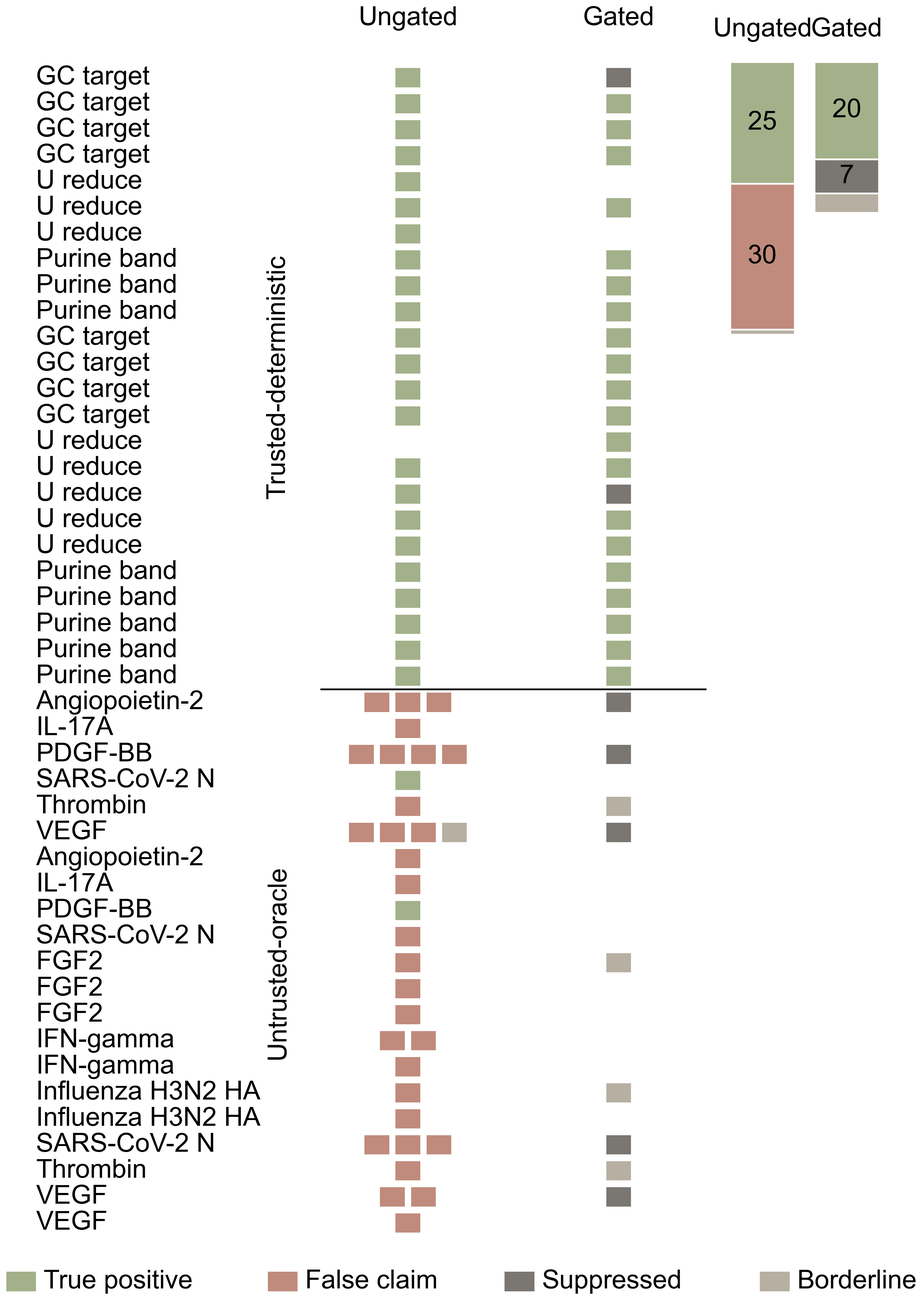
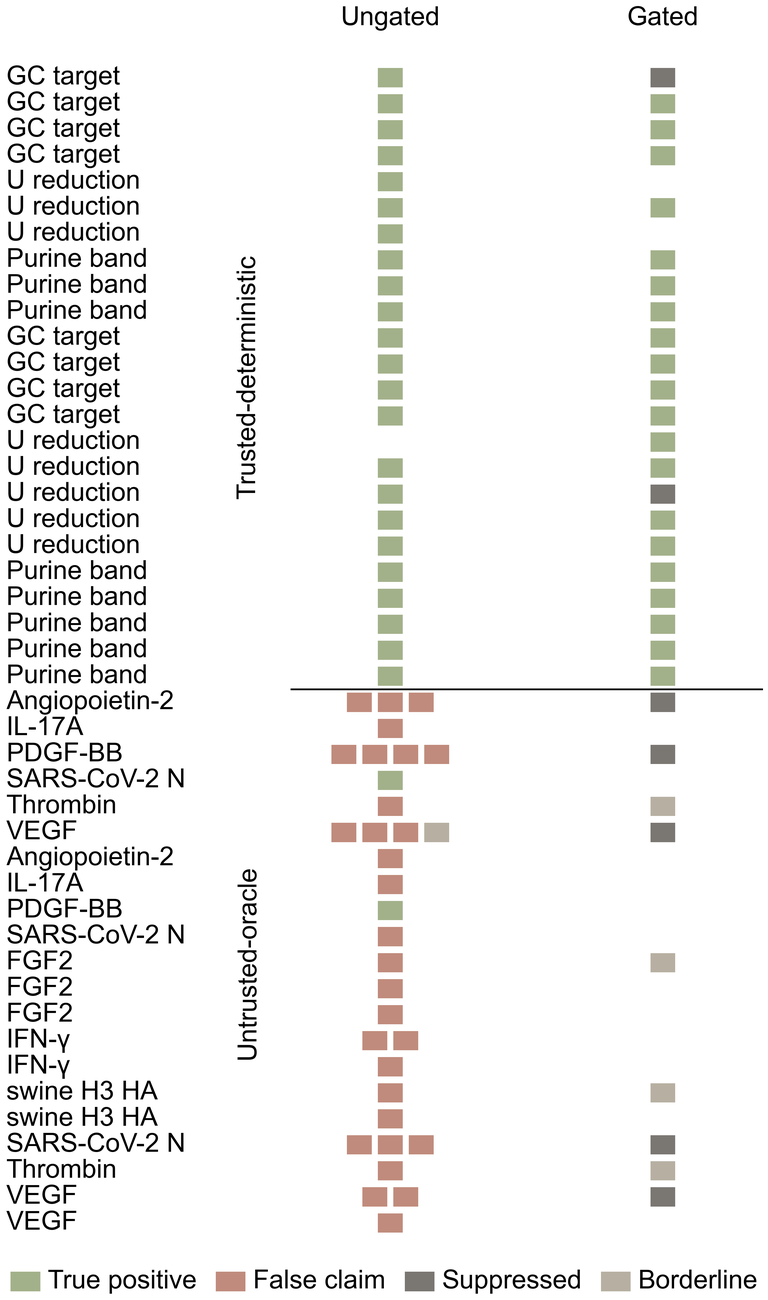
style(fig4b): drop the arm x verdict mosaic inset + fix row-label terminology — user-directed revision of the frozen Exp-17 panel, no re-run
- mosaic inset removed: its counts are stated in the Fig-4b caption and
  main text (the fig2h-donut / fig3f-waffle precedent); its duplicated
  arm headers cramped against each other above a tall empty column
- row labels to the fig3 convention: IFN-gamma -> IFN-gamma-symbol,
  Influenza H3N2 HA -> swine H3 HA; U reduce -> U reduction
- verdict key laid out with renderer-measured glyph widths (fig4e
  convention) under a canvas-overflow assert — the old estimated widths
  made the key wider than the canvas
- arm blocks 12 -> 14 mm, block gap 5 -> 8 mm so the matrix and the
  one-row key share the canvas width
- raster QA: zero non-black text cores, zero non-palette blobs, zero
  text ink inside tiles, no clipping; 1200-dpi PNG + vector PDF
- docs synced: PAPER_DRAFT Fig-4 legend (b), FIGURE_PLAN_V5 row b +
  type list + dated note, CHANGELOG, AGENTS.md Exp-17 entry

diff --git a/rna_agent_system/experiments/plots/fig4b_claim_matrix.py b/rna_agent_system/experiments/plots/fig4b_claim_matrix.py
@@ -5,9 +5,15 @@ untrusted-oracle block below), two column blocks (Ungated control arm =
 Exp 5, Gated treatment arm = Exp 17); one colour tile per published claim,
 green (sage) = retained true positive, red (terracotta) = false claim —
 the Biomni Fig. 2C–E correct/incorrect matrix encoding; suppressed claims
-dark warm grey; borderline claims warm grey. A summary mosaic inset (arm
-columns x verdict segments, heights proportional to claim counts) sits at
-the panel's top right over the empty claim space of low-claim rows.
+dark warm grey; borderline claims warm grey.
+
+2026-09-01 user-directed revision: the arm x verdict mosaic inset at the
+panel's top right was removed (its counts are already stated in the
+Fig. 4b caption and main text, its duplicated arm headers cramped against
+each other, and it left a tall empty column below it — the fig2h-donut /
+fig3f-waffle precedent); row labels now follow the fig3 target-label
+convention ("IFN-gamma" -> "IFN-γ", "Influenza H3N2 HA" -> "swine H3 HA")
+and "U reduce" was reworded to "U reduction".
 
 Style (Nature conventions, the fig3-panel house style): no in-figure
 titles; every text element one 6-pt pure-black style; colours only from
@@ -73,10 +79,13 @@ def task_rows() -> list[tuple[str, str]]:
     payload = json.loads(TASKS_JSON.read_text(encoding="utf-8"))
     det = [t for t in payload["tasks"] if t["category"] == "trusted_deterministic"]
     unt = [t for t in payload["tasks"] if t["category"] == "untrusted_oracle"]
-    fam = {"gc_target": "GC target", "u_reduce": "U reduce",
+    fam = {"gc_target": "GC target", "u_reduce": "U reduction",
            "purine_band": "Purine band"}
+    # target-label convention shared with the fig3 panels
+    tgt = {"IFN-gamma": "IFN-γ", "Influenza H3N2 HA": "swine H3 HA"}
     rows = [(t["id"], fam.get(t["task_family"], t["id"])) for t in det]
-    rows += [(t["id"], t["target_family"]) for t in unt]
+    rows += [(t["id"], tgt.get(t["target_family"], t["target_family"]))
+             for t in unt]
     return rows
 
 
@@ -90,16 +99,15 @@ def main() -> int:
                           or [0]) for tid, _ in rows), default=1)
 
     # Fixed block widths; claim tiles shrink to fit denser rows.
-    block_w = 12.0                          # mm per arm block
+    block_w = 14.0                          # mm per arm block
     tile = min(2.0, (block_w - 1.0) / max(1, max_claims) - 0.5)
     gap_tile = 0.5 if tile >= 1.2 else 0.3
     row_h, row_gap = 1.55, 0.55             # mm per task row
-    block_gap = 5.0                         # mm between the two arm blocks
+    block_gap = 8.0                         # mm between the two arm blocks
     label_w = 24.0                          # row-label column
     left_x = label_w + 2.0
     gated_x = left_x + block_w + block_gap
-    mx_w, mx_col = 16.0, 5.2                # mosaic inset
-    fig_w = gated_x + block_w + 4.0 + mx_w + 2.0
+    fig_w = gated_x + block_w + 3.0         # right margin
     fig_h = 10.0 + n_rows * (row_h + row_gap) + 8.0
 
     fig = plt.figure(figsize=(fig_w / 25.4, fig_h / 25.4), facecolor="white")
@@ -150,40 +158,22 @@ def main() -> int:
         fig.text(_fx(left_x - 4.5), _fy(yy), lab, ha="center", va="center",
                  rotation=90, fontsize=FONT, color=INK)
 
-    # ── mosaic inset: claim composition per arm ───────────────────────────
-    mx_w, mx_h = 16.0, min(22.0, fig_h - 14.0)
-    mx_x = fig_w - mx_w - 3.0
-    mx_y = 9.5
-    arms = summary["arms"]
-    col_w = 5.2
-    totals = {a: sum(arms[a][v] for v in VERDICT_ORDER) for a in ARM_ORDER}
-    max_total = max(totals.values())
-    for b, arm in enumerate(ARM_ORDER):
-        cx = mx_x + b * (col_w + 1.6)
-        yy = mx_y
-        for v in VERDICT_ORDER:
-            n = arms[arm][v]
-            if not n:
-                continue
-            seg_h = mx_h * n / max_total
-            fig.patches.append(Rectangle(
-                (_fx(cx), _fy(yy + seg_h)), _fx(col_w),
-                _fy(yy) - _fy(yy + seg_h),
-                facecolor=VERDICT_COLORS[v], edgecolor="white",
-                linewidth=0.4, transform=fig.transFigure, zorder=3))
-            if n / max_total > 0.10:
-                fig.text(_fx(cx + col_w / 2), _fy(yy + seg_h / 2), str(n),
-                         ha="center", va="center", fontsize=FONT, color=INK,
-                         zorder=4)
-            yy += seg_h
-        fig.text(_fx(cx + col_w / 2), _fy(mx_y - 2.6), ARM_LABELS[arm],
-                 ha="center", va="center", fontsize=FONT, color=INK)
-
     # ── verdict key: one centred row under the matrix ─────────────────────
+    # Label widths measured with the renderer (the fig4e measured-glyph
+    # convention) so the centred row never overflows the canvas.
     key_y = fig_h - 4.6
-    sw_w, sw_h, pitch, gap_k = 2.4, 1.6, 3.0, 1.6
-    label_w = {"TP": 16.5, "FP": 14.5, "suppressed": 16.0, "borderline": 14.0}
-    row_w = sum(pitch + label_w[v] + gap_k for v in VERDICT_ORDER) - gap_k
+    sw_w, sw_h, pitch, gap_k = 2.4, 1.6, 3.0, 1.5
+    fig.canvas.draw()
+    renderer = fig.canvas.get_renderer()
+    text_w = {}
+    for v in VERDICT_ORDER:
+        probe = fig.text(0, 0, VERDICT_LABELS[v], fontsize=FONT, color=INK)
+        bb = probe.get_window_extent(renderer)
+        text_w[v] = bb.width / fig.dpi * 25.4     # px → mm
+        probe.remove()
+    row_w = sum(pitch + text_w[v] for v in VERDICT_ORDER) + \
+        gap_k * (len(VERDICT_ORDER) - 1)
+    assert row_w <= fig_w - 4.0, f"verdict key {row_w:.1f} mm > canvas"
     x = (fig_w - row_w) / 2
     for v in VERDICT_ORDER:
         fig.patches.append(Rectangle(
@@ -193,7 +183,7 @@ def main() -> int:
             transform=fig.transFigure))
         fig.text(_fx(x + pitch), _fy(key_y), VERDICT_LABELS[v],
                  ha="left", va="center", fontsize=FONT, color=INK)
-        x += pitch + label_w[v] + gap_k
+        x += pitch + text_w[v] + gap_k
 
     OUT_DIR.mkdir(parents=True, exist_ok=True)
     for ext in ("pdf", "png"):
@@ -201,6 +191,7 @@ def main() -> int:
                     dpi=1200 if ext == "png" else None,
                     facecolor="white", bbox_inches="tight", pad_inches=0.02)
     plt.close(fig)
+    arms = summary["arms"]
     u, g = arms["ungated"], arms["gated"]
     print(f"fig4b -> {OUT_DIR / 'fig4b_claim_matrix.pdf'} (+png 1200 dpi); "
           f"ungated TP {u['TP']}/FP {u['FP']}, gated TP {g['TP']}/FP {g['FP']}/"

diff --git a/AGENTS.md b/AGENTS.md
@@ -9,7 +9,7 @@
 
 - **Exp 18 (Fig 4d, §2.4 实验 3) executed** (2026-09-01, user-confirmed dataset alignment — "与最新的数据集保持一致" — then launched): E3-M mRNA-side claim-gating dual-arm re-run (`experiments/exp18_build_mrna_audit_tasks.py` + `experiments/exp18_mrna_claim_gating.py`, pre-registered docstrings, pilot 6/6 per arm PASS; legacy E3-M assets absent from disk — nothing to delete; protocol recovered from git e337ac5). Task set rebuilt on the **latest re-run datasets**: targets = the current `RNA-BioBench-FullLength-mRNA` files (per-target codon tables — GFP E. coli per the current registration; legacy had used Homo sapiens for all four, disclosed); CDS candidates = the production `mrna_cds_design` λ-grid (the Fig-2b/c designed-arm instrument; task λ {0,4,10}, compare λ 0 vs 10 — legacy pool was the deleted E6 cache λ {2,8,20}); constructs = the production `full_length_mrna_design` top-3 ranked per target; MRL ground truth = the Exp-14 anchor set (measured MRL); 20 tasks / 8 families / 10 trusted + 10 untrusted, family-target assignment identical to legacy. Trusted truth = exact recomputation (production CAI tool, LinearFold MFE, pure-Python constraints); untrusted scores **never embedded** — fetched live at run time (GEMORNA 8004 + LinearFold 8015; junction = the CURRENT platform junction report MFE/nt + ddG_open_w1, the legacy AUG/Kozak burial booleans being retired platform-side; run-time junction values cross-validated bit-identical against the design-time workflow scores). Both arms fresh: ungated = advisory; gated = `RNADA_CAPGATE=enforce` + packaged default SelfModel (E7/Exp-14 GEMORNA-MRL profile) + deterministic report metrics registered per family + the legacy scoring-implied-by-ranking patch (restored after gated pilot v1 mis-suppressed legitimate MRL claims — 6 runs superseded, disclosed) + execution verification + ClaimGate; exactly 2 LLM calls/task/arm, prompts byte-identical to legacy E3-M; deterministic blind adjudication (legacy rules; seed-0 shuffle + sealed map; registered amendment: positive assertion on decoy families requires a candidate-id subject — the legacy word-list heuristic misfired on the gated arm's negated abstention statements). **Platform defect found and bypassed (disclosed): the full-length results JSON's `metadata.cds_sequence` is a storage-side truncated echo (200 chars + "…(truncated)", the ToolExecutor string limit) — design-time evaluation ran on the true in-memory sequences (stored cds_cai equals the clean CDS's CAI exactly), the builder resolves the true CDS from the CDS-design cache by source with a prefix assertion; the five construct tasks re-run after the fix (10 superseded runs).** **40/40, 0 failures (ungated 1,224.6 s + gated 840.6 s; design phase 3,850.7 s cached): FP 6/17 = 35.3% (CI 17.3–58.7) → 1/12 = 8.3% (CI 1.5–35.4); TP retention 11/11 = 100%; overreach 6 → 0; go-rule PASS (76.4% FP reduction ≥ 50%, 100% retention ≥ 90%)** — the gated endpoint reproduces the legacy registered 8.3%/11-of-11 exactly, the surviving FP is the same symmetric MRL rank-flip channel (weakest certified family ρ = 0.835: predicted hi30 vs measured hi01); ungated FPs concentrate on utr3 (3/3) + junction (2/2); the gated protection acts one layer earlier than the aptamer side — 6 blocked plan requests → the model publishes no claim at all on the five utr3/junction tasks, 3 cross-family MRL claims downgraded to relative scope (neutral), 0 suppressions; trusted families 10/10 TP both arms, 0 abstentions. Usage: 80 kept + 32 superseded LLM calls. Figure `experiments/plots/fig4d_mrna_family_strip.py` → `fig4d_mrna_family_strip.{pdf,png}` (paired categorical strip by task family: 20 task rows × two arm blocks, one tile per published claim — sage TP / terracotta FP / warm grey neutral / outlined white = no published claim (the gated abstention mechanism) — + arm × verdict mosaic inset; palette rev 7, 6-pt pure black, absolute mm, 1200-dpi PNG; two visual-QA rounds — first round's family/target label column collisions fixed by shortened labels + widened columns). PAPER_DRAFT (abstract + contribution 3 + §2.4 paragraph + Fig 4 legend d + Methods + LLM usage + data availability), PAPER_FACT_SHEET (Exp 18 section + claim check + key-number 13 extended to the E3-M re-run), FIGURE_PLAN_V5 row d + dated note, MANUSCRIPT reset table, CHANGELOG updated. **Next: Fig 4e–h + Figs 5–6 campaigns + E21/E22 baselines under the third reset, same pattern.**
 
-- **Exp 17 (Fig 4a/4b, §2.4 实验 1) executed** (2026-08-31, user-confirmed dataset currency then launched): capability-gated dual-arm main re-run (`experiments/exp17_claim_gating.py`, pre-registered docstring, pilot 8/8 PASS — 0 FP / 0 overreach / 14 blocked plan requests; task set `e5_audit_tasks.json` verified byte-identical to a fresh regeneration before launch; legacy E3 assets absent from disk — nothing to delete). The legacy E3 gated arm (registered 57.9% → 0%, TP 8 → 9, overreach 23 → 0) re-measured at the 45-task plan-A scale, paired task-for-task with the Exp-5 ungated control arm (same tasks, prompts, live oracle chain; dedup cache seeded from Exp 5 — disclosed). Instrument = the production gate stack as shipped: `RNADA_CAPGATE=enforce` + packaged default SelfModel (structural oracles failed screening/ranking on all six profiled families; the three v3-only families inherit the denial by conservative transfer); plan oracle_requests gated per declared use at the oracles' registered task key `rna_aptamer_design` (structural oracles via `runtime.review_tool_call` under `oracle_use`; deterministic proxies and unknown names gate as unprofiled → blocked under enforce — the same outcome as the legacy runtime-profiled failed grade); allowed requests fulfilled live through ToolExecutor under the same context (tool-layer gate = the actual enforcer); amendment-v1.1 legs kept (ClaimGate uniform basis rule + execution verification by exact recomputation); prompts byte-identical to the control arm modulo the legacy gate-feedback block; blind adjudication (cross-arm shuffle seed 0, sealed map `blind_map_SEALED.json`). **45/45, 0 failures (wall ≈ 1.6 h): FP 0/31 = 0% (Wilson CI 0–16.1) vs ungated 54.5% — the hard guarantee holds on every task; overreach 59 → 0 (71 plan requests blocked); TP retention 80.0% (25 → 20) — below the pre-registered 90% gate, reported as measured**: 2 true metric claims suppressed by the uniform basis rule (LLM declared the deterministic metric itself as an unprofiled dependency), 2 length-sloppy sequences (59 ≠ 60 nt) correctly abstained (counterfactual FPs), the ungated arm's 2 lucky untrusted TPs unretainable by design, +1 rescue (u_reduce_3); ClaimGate flow 31 → 24 published (20 TP + 4 borderline) / 7 suppressed (counterfactual 4 FP + 3 TP); deterministic class 20 TP / 0 FP, untrusted class 0/0/4 borderline/5 suppressed; legacy-20 subset gated 0%. Figures `experiments/plots/fig4a_claim_gating_headline.py` → `fig4a_claim_gating.{pdf,png}` (grouped bars: FP rate + Wilson CI whiskers / TP counts; ungated terracotta / gated sage) `fig4b_claim_matrix.py` → `fig4b_claim_matrix.{pdf,png}` (45-row task × arm per-claim colour-block matrix — sage = retained / terracotta = false claim, the Biomni Fig. 2C–E convention — with arm × verdict mosaic inset; category separator + rotated group labels + centred four-swatch verdict key; palette rev 7, 6-pt pure black, absolute mm, 1200-dpi PNG; QA fixed a mm/inch double-conversion bug that collapsed the first render and raised fig4a's 0% label off the axis). PAPER_DRAFT (abstract + contribution 3 + §2.4 paragraph + Fig 4 legend a–c + Methods + LLM usage + data availability), PAPER_FACT_SHEET (Exp 17 section + claim check + key-number 13 re-based to the re-measured dual-arm numbers + legacy-E3 superseded note), FIGURE_PLAN_V5 rows a/b (+ row c data note 59 → 0, panel pending), MANUSCRIPT reset table, CHANGELOG updated. Same-day addendum: **Fig 4c drawn from the same frozen results, no re-run** (`experiments/plots/fig4c_overreach_events.py` → `fig4c_overreach_events.{pdf,png}`: overreach paired bars by oracle × use — ungated 59 (RhoFold 9+11, ProteinX 11+8, EGARPS 11+9) → gated 0, arm colours as fig4a, 59→0 bracket delta annotation; FIGURE_PLAN_V5 row c, PAPER_DRAFT legend (c) + the 71-blocked-requests clause, MANUSCRIPT, CHANGELOG updated). **Next: the remaining Figs 4–6 campaigns + E21/E22 baselines under the third reset, same pattern.**
+- **Exp 17 (Fig 4a/4b, §2.4 实验 1) executed** (2026-08-31, user-confirmed dataset currency then launched): capability-gated dual-arm main re-run (`experiments/exp17_claim_gating.py`, pre-registered docstring, pilot 8/8 PASS — 0 FP / 0 overreach / 14 blocked plan requests; task set `e5_audit_tasks.json` verified byte-identical to a fresh regeneration before launch; legacy E3 assets absent from disk — nothing to delete). The legacy E3 gated arm (registered 57.9% → 0%, TP 8 → 9, overreach 23 → 0) re-measured at the 45-task plan-A scale, paired task-for-task with the Exp-5 ungated control arm (same tasks, prompts, live oracle chain; dedup cache seeded from Exp 5 — disclosed). Instrument = the production gate stack as shipped: `RNADA_CAPGATE=enforce` + packaged default SelfModel (structural oracles failed screening/ranking on all six profiled families; the three v3-only families inherit the denial by conservative transfer); plan oracle_requests gated per declared use at the oracles' registered task key `rna_aptamer_design` (structural oracles via `runtime.review_tool_call` under `oracle_use`; deterministic proxies and unknown names gate as unprofiled → blocked under enforce — the same outcome as the legacy runtime-profiled failed grade); allowed requests fulfilled live through ToolExecutor under the same context (tool-layer gate = the actual enforcer); amendment-v1.1 legs kept (ClaimGate uniform basis rule + execution verification by exact recomputation); prompts byte-identical to the control arm modulo the legacy gate-feedback block; blind adjudication (cross-arm shuffle seed 0, sealed map `blind_map_SEALED.json`). **45/45, 0 failures (wall ≈ 1.6 h): FP 0/31 = 0% (Wilson CI 0–16.1) vs ungated 54.5% — the hard guarantee holds on every task; overreach 59 → 0 (71 plan requests blocked); TP retention 80.0% (25 → 20) — below the pre-registered 90% gate, reported as measured**: 2 true metric claims suppressed by the uniform basis rule (LLM declared the deterministic metric itself as an unprofiled dependency), 2 length-sloppy sequences (59 ≠ 60 nt) correctly abstained (counterfactual FPs), the ungated arm's 2 lucky untrusted TPs unretainable by design, +1 rescue (u_reduce_3); ClaimGate flow 31 → 24 published (20 TP + 4 borderline) / 7 suppressed (counterfactual 4 FP + 3 TP); deterministic class 20 TP / 0 FP, untrusted class 0/0/4 borderline/5 suppressed; legacy-20 subset gated 0%. Figures `experiments/plots/fig4a_claim_gating_headline.py` → `fig4a_claim_gating.{pdf,png}` (grouped bars: FP rate + Wilson CI whiskers / TP counts; ungated terracotta / gated sage) `fig4b_claim_matrix.py` → `fig4b_claim_matrix.{pdf,png}` (45-row task × arm per-claim colour-block matrix — sage = retained / terracotta = false claim, the Biomni Fig. 2C–E convention — with arm × verdict mosaic inset; category separator + rotated group labels + centred four-swatch verdict key; palette rev 7, 6-pt pure black, absolute mm, 1200-dpi PNG; QA fixed a mm/inch double-conversion bug that collapsed the first render and raised fig4a's 0% label off the axis; **2026-09-01 user-directed revision, same frozen Exp-17 summary, no re-run**: the arm × verdict mosaic inset removed (its counts are stated in the Fig-4b caption/main text — the fig2h-donut/fig3f-waffle precedent — and its duplicated arm headers cramped above a tall empty column), row labels to the fig3 convention (IFN-γ, swine H3 HA), "U reduce" → "U reduction", the verdict key laid out with renderer-measured glyph widths under a canvas-overflow assert, arm blocks 12 → 14 mm; raster QA: zero non-black text cores, zero non-palette blobs, zero text ink inside tiles, no clipping). PAPER_DRAFT (abstract + contribution 3 + §2.4 paragraph + Fig 4 legend a–c + Methods + LLM usage + data availability), PAPER_FACT_SHEET (Exp 17 section + claim check + key-number 13 re-based to the re-measured dual-arm numbers + legacy-E3 superseded note), FIGURE_PLAN_V5 rows a/b (+ row c data note 59 → 0, panel pending), MANUSCRIPT reset table, CHANGELOG updated. Same-day addendum: **Fig 4c drawn from the same frozen results, no re-run** (`experiments/plots/fig4c_overreach_events.py` → `fig4c_overreach_events.{pdf,png}`: overreach paired bars by oracle × use — ungated 59 (RhoFold 9+11, ProteinX 11+8, EGARPS 11+9) → gated 0, arm colours as fig4a, 59→0 bracket delta annotation; FIGURE_PLAN_V5 row c, PAPER_DRAFT legend (c) + the 71-blocked-requests clause, MANUSCRIPT, CHANGELOG updated). **Next: the remaining Figs 4–6 campaigns + E21/E22 baselines under the third reset, same pattern.**
 
 - **Fig 3 composite 组装（a–h 八面板）** (2026-08-31, 当日经用户指示修订一轮): `experiments/plots/fig3_assemble.py` → `experiments/plots/output/fig3_composite.{pdf,png}` (190.5 × 254.6 mm page; PNG 8999 × 12029 px at **1200 dpi** rendered from the all-vector composite PDF — Nature Methods line-art bar; PyMuPDF `show_pdf_page` Form-XObject embedding, no rasterization). Nature conventions re-verified against the published DeepRare main Figs. 2–4 (`relevant_references/`, Nature 651, 2026): bold lowercase letters at each panel's top-left corner (Helvetica-Bold 8 pt, ink black, no period/brackets), strict reading order a → h, rows top-aligned so same-row letters share one line, fixed column grid — the fig2 composite conventions carried over. Layout: a full width; **b + c share row 2 edge to edge** — c embedded in a two-sub-row composite layout (`FIG3C_LAYOUT=composite` → `fig3c_docking_lollipop_composite.{pdf,png}`: the 19 lollipops wrap 11 + 8 at the SARS-CoV-2 RBD | PSMA group boundary onto a 97.2 × 103.8 mm canvas matching b's height; the standalone single-row panel c unchanged); **d + e 等高配对** — 首版 d|e 行在 e 下方留有高差空白带，用户指示后 d 就地缩小（3.84×2.46 → 3.70×2.00 in → 86.7×44.1 mm）、e 就地放大（89×34 → 94×44.6 mm → 85.5×41.4 mm）重渲染，6-pt 字体与内部版式不变、数据不变; **f g h 三联等高一排收尾**（fig2 fgh 行惯例：统一绘制高度 90.2 pt，各面板缩放 ≈ 0.69/0.64/0.81，剩余宽度均分 gutters；用户指示 h 无需全宽 —— 首版的全宽 h 变体 `fig3h_dissolution_composite.*` 退役删除，fig3h 脚本回退单一版式）。Assembly QA caught fig3a's colour-bar gradient embedded at 100 dpi inside the panel PDF (the composite's only raster element) — fig3a's savefig dpi unified to 1200 and re-rendered (same v3 summary, 2/27 passes invariant; its standalone PNG now 1200 dpi too, matching the fig3b–h convention). Strip-by-strip visual QA (row letter lines, b|c seam, d|e matched heights, fgh equal-height row, h inset/gate tag, right-edge flush) passed. FIGURE_PLAN_V5 (Fig-3 table footnote), CHANGELOG updated. **Next: Figs 4–6 campaigns + E21/E22 baselines re-run under the third reset, same pattern (new `expN_*` drivers, pre-registered docstrings, advisory primary arm, unified palette rev 7 figures).**
 - **Figs 3–5 撤销 a 子图总结图 + fig3 文件改名 fig3a–h** (2026-08-31, user direction — 结果图不再以总结/机制示意图开头，直接呈现实验结果图): Fig 3a 失败模式示意图（当日早些时候绘制）连同 `fig3a_failure_modes.{py,pdf,png}` 删除；规划中的 Fig 4a CapGate 机制示意图与 Fig 5a GenNav 机制示意图在其战役重跑之前移除；三张图原 b–i 面板全部重编为 a–h。机制示意保留在 Fig 1（d CapGate loop、e GenNav loop），PAPER_DRAFT 正文机制引用相应改指 Fig. 1d / Fig. 1e，§2.3 开头引用改指整图 (Fig. 3)。**文件改名**：`experiments/plots/fig3{b..i}_*.py` → `fig3{a..h}_*.py`（output/ 下 pdf/png 同步），脚本内 Usage/Output 路径与面板惯例互引（fig3b/3c/3g 惯例 → fig3a/3b/3f 等）一并重编；外部文献引用（如 CASCADE Fig. 3b）未动；8 个脚本 py_compile 通过。**文档同步**：FIGURE_PLAN_V5（三图删 a 行、行重编、9→8 panels、类型清单字母、新增 2026-08-31 注记）、PAPER_DRAFT（正文引用 + Fig 3/4/5 图例 + 头部注记）、PAPER_FACT_SHEET 与 MANUSCRIPT（v5 面板字母、图脚本路径、legacy→v5 映射注记）。Fig 2a 任务毯图与 Fig 6a 能力地图为数据面板，未动。历史登记（本文件既有 What's-New 条目、CHANGELOG 旧条目、预注册 driver docstring、冻结结果 summary）按写作时字母/路径保留 — 其中的 fig3X 文件名按本条映射解读。**Next 不变：fig3 composite 组装（按新字母 a–h），然后 Figs 4–6 campaigns + E21/E22 baselines re-run under the third reset, same pattern（新战役图直接按新字母编号）。**

diff --git a/rna_agent_system/docs/PAPER_DRAFT.md b/rna_agent_system/docs/PAPER_DRAFT.md
@@ -148,7 +148,7 @@ The complete RNADesignAgent platform (agent core, multi-agent execution layer, w
 
 **Fig. 3 | Three failure modes of tool-using agents, measured.** (a) Screening power of three structure oracles across nine RNA–protein targets (bubble-matrix heatmap; bubble size and colour encode AUROC, printed per cell; chance 0.5 marked solid on the colour scale; per-target anchor counts, binders + / negatives −, under the column labels): on the nine-target anchor set (95 entries) 2/27 cells nominally pass the AUROC > 0.8 gate — ProteinX on swine H3 HA (0.83, CI 0.33–1.0) and EGARPS on IFN-γ (0.83, CI 0.50–1.0) — both small-n and all 27 bootstrap 95% CIs cover chance. (b) Ranking power (Cleveland dot plot of per-cell Spearman ρ against measured Kd on the within-target affinity series; ringed dots = nominal passes, ρ ≥ 0.6): no cell shows reliable ranking power. Run 2026-08-28, 54 affinity entries zero-intervention through the deployed chain (54/54, 27 cells): 4/27 nominal passes — all three oracles on IFN-γ (ρ = 0.71/0.66/0.60, n = 6; a single in-silico-mutant family spanning < 1 order of Kd) and ProteinX on Angiopoietin-2 (n = 3) — the three IFN-γ bootstrap intervals span zero, while the Angiopoietin-2 cell is a degenerate three-point estimate (its entries flip between ~0 and ~1 across stochastic complex realizations). (c) Docking (native-pose rank lollipop, one marker per complex over its 21-candidate seeded rigid-body decoy set, ordered left to right by protein target; rank 1 = top-1 is the pre-registered success criterion, panel gate ≥ 2/3 of complexes): native poses never rank top-1 — 0/19 complexes across 14 independent protein targets (left to right: Thrombin — TBA, HD22, Toggle-25t, M08s-1; HIV-1 RT — T1.1; Factor IXa — DTRI-177; Factor Xa — 11F7t; vWF — ARC1172, BT-100; SARS-CoV-2 N — A58-T10; SARS-CoV-2 RBD — FY-apt; PSMA — A9g; autotaxin — Kato16; NF-κB — p50-apt; GRK2 — C13.18; TfR1 — TfR1-apt; *P. falciparum* LDH — PfLDH-1, C8N5t; *P. vivax* LDH — pL1), ranks 6–20 of 21, native below the median decoy in most complexes; reset run 2026-08-27 zero-intervention through the deployed EGARPS service on the user-approved v3 anchor extension (397/399 poses scored; two reproducible service-side pose failures disclosed; the offline-calibrated decoy protocol reproduces the 1HVU native contact count of 152 exactly). (d) Affinity calibration (Kd scatter — each point one of the 62 binders with a measured Kd across the nine targets; the six thrombin-series points ringed; pegaptanib annotated): on the full nine-target anchor set (reset run 2026-08-28, 95/95 zero-intervention through the deployed chain) the six-point thrombin Kd series reaches ρ = 0.49 (sub-gate); pooled binder-versus-negative separation is chance-level (AUROC = 0.52, 95% CI 0.39–0.65, 62 vs 28), with all three score classes — binders, literature negatives, random-sequence negatives — spanning the full nine-order score range with interleaved medians (0.22, 1.4 × 10⁻³ and 2.2 × 10⁻² respectively; class distributions text-reported, the screening failure shown systematically in a); the per-entry inversion is seen on the panel (pegaptanib ~1.3 × 10⁻⁶ versus scrambled TBA 0.98). (e) Claim overreach in the ungated agent (horizontal bars: decision-layer overreach events by oracle and intended use, oracle colours as in a–d, solid = ranking objective, light = screening evaluation; the per-claim adjudication is text-reported): on the 45-task audit set (reset run 2026-08-29, zero-intervention through the deployed oracle services) 30 of 55 claims are false positives (54.5%; 95% CI 41.5–67.0) — 23/23 claims true on the 24 trusted-deterministic tasks versus 30 of 32 false on the 21 untrusted-oracle tasks (93.8%) — with 59 plan-level overreach events spread 8–11 per cell across all three oracles and both uses. (f) Profiling certifies where power exists (forest dot + 95% CI against the pre-registered gates, dashed; left, screening AUROC on the high- versus low-MRL tiers — 60 + 60 anchors per family — with the 0.8 gate; right, ranking Spearman ρ against measured MRL — 120 rank-stratified anchors per family — with the 0.6 gate; family rows — the random 50-nt 5′UTR library, the registered in-distribution positive control, and the two never-trained varying-length 5′UTR libraries — value and CI printed above each dot): the expression oracle (GEMORNA MRL) passes decisively on all three measured-ribosome-load anchor families — screening AUROC 0.990–1.000 with bootstrap CIs clearing chance, ranking ρ 0.835–0.926 with descriptive CIs 0.75–0.95 all above the gate. Reset run 2026-08-29 zero-intervention through the deployed service (706/706 successful). (g) Deployed-artifact fidelity (dumbbell with a live verification fork; per split, screening AUROC on the oracle's own official held-out test splits; chance 0.5 solid, screening gate 0.8 dashed): the pre-fix service, recovered byte-verbatim from version control and re-measured in an isolated sandbox on the same pairs, scores 0.790/0.420 (open markers; agreement with the registered incident record ≤ 0.009) — its preprocessing collapsed the model's case-sensitive RNA encoding and "corrected" an upstream adjacency-indexing quirk the checkpoints were trained on; after the preprocessing repair both of the platform's shipped integration paths were re-verified live, zero-intervention, on all 1,662 pairs — the default agent tool path (wrapper uppercase + T→U normalization, verified applied on every pair; terracotta) at 0.975/0.986 and the verbatim service endpoint (sage) at 0.974/0.983, the endpoint bit-identical to the registered evidence; the shared case treatment across arms isolates the adjacency rewrite as the damage carrier; whiskers are stratified-bootstrap 95% CIs. (h) Confounded improvement (effect-size slope across the pre-registered controls, with a permutation-null histogram inset marking the observed δ; pre-registered GO gate δ = 0.3 dashed; reset run 2026-08-29→31, 240 cells zero-intervention through the deployed chain, 228 successful — Ferritin the registered zero-output boundary): the coordination loop's apparent advantage over the serial baseline on the EGARPS-component best-of-pool metric (Cliff's δ = +0.14, paired Wilcoxon P = 2.6 × 10⁻³; 41/56 paired cells; n = 56 (target, seed) cells over 19 targets × 3 seed sets; stage dots terracotta / grey blue / sage) is already below the effect-size gate and collapses under budget matching (δ = +0.05, P = 0.21; loop pool 16 versus one-pass serial 16) and under fixed resampling at identical mechanics and budget (δ = −0.01, P = 0.73; forced seeds+1 second pass) — the loop's diagnostic content adds nothing beyond doubled sampling; the four-step self-audit retires the two strongest legacy claims (survival 0/2 against the 70% threshold); inset: sign-flip permutation null of the apparent effect (10⁴), observed δ marked.
 
-**Fig. 4 | Capability gating eliminates false claims while preserving true ones.** (a) Dual-arm main experiment on the 45-task audit set (both arms re-run under the programme reset; ungated control = Exp 5, gated treatment = Exp 17; grouped bars, Wilson 95% CI whiskers on the rate panel): false-positive claim rate 54.5% (ungated, 30/55) → 0% (gated, 0/31); true positives 25 → 20 (retention 80.0%, below the pre-registered 90% gate — see main text for the deterministic decomposition). (b) Claim adjudication (per-claim colour-block matrix — one row per task, two arm blocks, one tile per claim: green = retained true positive, terracotta = false claim, dark grey = suppressed at the claim gate, light grey = borderline; arm × verdict mosaic inset): ungated 25 true positives / 30 false positives versus gated 20 / 0 with 7 suppressed and 4 borderline; the gated block carries no false tile. (c) Decision-layer overreach events: 59 → 0, by oracle and intended use (paired bars with the change annotated; all ungated events on untrusted-oracle tasks; the gated arm's zero follows from 71 plan requests blocked at the decision gate). (d) Replication on the mRNA-side audit set built from real full-length design-reporting tasks (Exp 18 dual-arm re-run; paired categorical strip by task family — one row per task, two arm blocks, one tile per published claim: green = retained true positive, terracotta = false claim, light grey = neutral relative-scope claim, outlined empty tile = no published claim; arm × verdict mosaic inset): false positives 35.3% (6/17) → 8.3% (1/12), true-positive retention 100% (11/11); all ungated false positives sit on the 3′UTR-stability and junction families, where the gated arm's six blocked plan requests leave no evidentiary path and it publishes no claim; the three never-profiled-family expression claims are downgraded to relative scope in both readings; the single surviving gated false positive is the symmetric MRL rank flip. (e) Selective gating on the certified MRL oracle (decision matrix; Exp 23, 2026-09-01, twelve cells, all meeting pre-registered expectations, zero LLM calls). DecisionGate rows — pre-action ranking-objective requests: allowed on the three Exp-14-certified Sample-2019 families (confidence 1.0); downgraded on a never-profiled family of the same oracle (conservative transfer, confidence decayed to 0.5 = 1.0 × 0.5); require-profiling — blocked — for the 3′UTR stability predictor, which has no measured anchor set. ClaimGate rows — absolute-scope claims: pass on a certified family; rewritten to within-target relative scope on the never-profiled family; rejected when depending on the unprofiled 3′UTR predictor. Right-hand annotations give the self-model confidence and the tool-layer consequence measured live through ToolExecutor: allowed and downgraded requests execute (the certified-family score reproducing the Exp-14 cache exactly), the blocked request fails as GatedActionError before any service call. Tile colours: sage allow/pass, mauve downgrade, sand require-profiling, terracotta reject (the Fig. 2h gate-verdict convention); left strips: grey blue 5′UTR MRL oracle (the Fig. 3f colour), dark warm grey 3′UTR stability oracle. (f) Production gate decisions from the platform audit trail (Cleveland dot plot by oracle): reject, require-profiling and downgrade counts. (g) Advisory governance: 19/19 tasks succeed with and without quality review; LLM review failure is recorded as audit metadata and can never fail a run. (h) LLM minimalism across campaigns (bubble strip; dot size encodes calls per task): two calls per task in the gating experiments (both arms), 2.4 per gene in mRNA navigation, a single call across the decisive aptamer run — the gates and guarantee rules are deterministic. Representative ungated claims and their gated rewrites are tabulated in Supplementary Table S1.
+**Fig. 4 | Capability gating eliminates false claims while preserving true ones.** (a) Dual-arm main experiment on the 45-task audit set (both arms re-run under the programme reset; ungated control = Exp 5, gated treatment = Exp 17; grouped bars, Wilson 95% CI whiskers on the rate panel): false-positive claim rate 54.5% (ungated, 30/55) → 0% (gated, 0/31); true positives 25 → 20 (retention 80.0%, below the pre-registered 90% gate — see main text for the deterministic decomposition). (b) Claim adjudication (per-claim colour-block matrix — one row per task, two arm blocks, one tile per claim: green = retained true positive, terracotta = false claim, dark grey = suppressed at the claim gate, light grey = borderline): ungated 25 true positives / 30 false positives versus gated 20 / 0 with 7 suppressed and 4 borderline; the gated block carries no false tile. (c) Decision-layer overreach events: 59 → 0, by oracle and intended use (paired bars with the change annotated; all ungated events on untrusted-oracle tasks; the gated arm's zero follows from 71 plan requests blocked at the decision gate). (d) Replication on the mRNA-side audit set built from real full-length design-reporting tasks (Exp 18 dual-arm re-run; paired categorical strip by task family — one row per task, two arm blocks, one tile per published claim: green = retained true positive, terracotta = false claim, light grey = neutral relative-scope claim, outlined empty tile = no published claim; arm × verdict mosaic inset): false positives 35.3% (6/17) → 8.3% (1/12), true-positive retention 100% (11/11); all ungated false positives sit on the 3′UTR-stability and junction families, where the gated arm's six blocked plan requests leave no evidentiary path and it publishes no claim; the three never-profiled-family expression claims are downgraded to relative scope in both readings; the single surviving gated false positive is the symmetric MRL rank flip. (e) Selective gating on the certified MRL oracle (decision matrix; Exp 23, 2026-09-01, twelve cells, all meeting pre-registered expectations, zero LLM calls). DecisionGate rows — pre-action ranking-objective requests: allowed on the three Exp-14-certified Sample-2019 families (confidence 1.0); downgraded on a never-profiled family of the same oracle (conservative transfer, confidence decayed to 0.5 = 1.0 × 0.5); require-profiling — blocked — for the 3′UTR stability predictor, which has no measured anchor set. ClaimGate rows — absolute-scope claims: pass on a certified family; rewritten to within-target relative scope on the never-profiled family; rejected when depending on the unprofiled 3′UTR predictor. Right-hand annotations give the self-model confidence and the tool-layer consequence measured live through ToolExecutor: allowed and downgraded requests execute (the certified-family score reproducing the Exp-14 cache exactly), the blocked request fails as GatedActionError before any service call. Tile colours: sage allow/pass, mauve downgrade, sand require-profiling, terracotta reject (the Fig. 2h gate-verdict convention); left strips: grey blue 5′UTR MRL oracle (the Fig. 3f colour), dark warm grey 3′UTR stability oracle. (f) Production gate decisions from the platform audit trail (Cleveland dot plot by oracle): reject, require-profiling and downgrade counts. (g) Advisory governance: 19/19 tasks succeed with and without quality review; LLM review failure is recorded as audit metadata and can never fail a run. (h) LLM minimalism across campaigns (bubble strip; dot size encodes calls per task): two calls per task in the gating experiments (both arms), 2.4 per gene in mRNA navigation, a single call across the decisive aptamer run — the gates and guarantee rules are deterministic. Representative ungated claims and their gated rewrites are tabulated in Supplementary Table S1.
 
 **Fig. 5 | Generation-layer constraint navigation on two flagship tasks.** (a) The selection-layer precursor fails for generation-structural reasons (batch diversity 0.82% on insulin via λ saturation; GFP pool pass 0/315 → 12/315 after a species-matched codon table). (b) On 18 mRNA targets (paired dots with counts and a permutation-null histogram inset), per-profile joint-criteria delivery passes for the navigation arm and fails for the rule-based arm in all 30 discordant pairs (McNemar P = 1.9 × 10⁻⁹, n = 54). (c) mRNA delivery map: 18 targets × 3 profiles pair-outcome mosaic (navigation-only / both / none); gene-level end-to-end delivery 1.0. (d) The stricter secondary quality bundle fails on HER2-class zero-feasible-gear targets and is disclosed; total LLM usage 43 calls (mean 2.4 per gene), below the pre-registered budget. (e) Aptamer campaign arc from mechanical transfer to the decisive campaign, at identical 48-candidate budget: the initial transfer (10 targets) repairs all three rule-arm delivery failures (9/10 versus 7/10 end-to-end at lower spend, mean 36 versus 48 raw candidates) but 26/30 cells pass under both arms; re-anchored constraints plus a densified lattice and S1 priors raise discordance to 9:2 (P = 0.065), and guaranteed-repair allocation converts the boundary (14:3, P = 0.0127). (f) The decisive campaign (E14; 12 targets): 26/36 versus 15/36 profile cells delivered (72% versus 42%), end-to-end delivery 6/12 versus 0/12, discordant cells 14:3, one LLM call across the run. (g) E14 delivery map: 12 targets × 3 profiles pair-outcome mosaic, three navigation-only wins and seven jointly-infeasible cells disclosed. (h) Budget compliance and production navigation (cost–delivery Pareto scatter with cap-hit and early-stop markers, plus a representative-campaign GenNav breakthrough step-line inset): raw spend ≤ 48 candidates per target in every arm, plus the live VEGF campaign.
 

diff --git a/rna_agent_system/docs/FIGURE_PLAN_V5.md b/rna_agent_system/docs/FIGURE_PLAN_V5.md
@@ -85,7 +85,7 @@ unchanged).
 | Panel | Content | Type | Data |
 |---|---|---|---|
 | a | E3 dual-arm re-run (Exp 17 gated arm + Exp 5 ungated control, 45 tasks, 2026-08-31): **FP rate 54.5% → 0%** (0/31, Wilson CI 0–16.1) and **TP retention 80.0% (25 → 20, below the pre-registered 90% gate)** — losses decompose as 2 true metric claims suppressed by the uniform basis rule (unprofiled deterministic-proxy dependency), 2 length-sloppy sequences correctly abstained (counterfactual FPs), 2 lucky untrusted TPs unretainable by design, +1 rescue | grouped bars w/ values | `exp17_claim_gating/summary.json` |
-| b | Per-claim adjudication: ungated 25 TP / 30 FP vs gated **20 TP / 0 FP / 7 suppressed / 4 borderline** (task × status colour-block matrix, sage = retained / terracotta = false claim — the Biomni Fig. 2C–E convention; + arm × verdict mosaic inset) | per-claim colour-block matrix (task × status) + mosaic inset | `exp17_claim_gating/summary.json` (per_task_matrix) |
+| b | Per-claim adjudication: ungated 25 TP / 30 FP vs gated **20 TP / 0 FP / 7 suppressed / 4 borderline** (task × status colour-block matrix, sage = retained / terracotta = false claim — the Biomni Fig. 2C–E convention) | per-claim colour-block matrix (task × status) | `exp17_claim_gating/summary.json` (per_task_matrix) |
 | c | Overreach events: **59 → 0** by oracle × use (ungated = Exp 5: RhoFold 9+11, ProteinX 11+8, EGARPS 11+9; gated = Exp 17: 0 in every cell — 71 plan requests blocked at the decision gate, stated in the caption) | paired bars + Δ annotation (59→0) | `exp5_claim_overreach/runs_summary.json` + `exp17_claim_gating/summary.json` |
 | d | E3-M mRNA side re-run (Exp 18 dual-arm, 20 tasks, 2026-09-01): per-task-family verdicts, **FP 35.3% → 8.3%** (6/17 → 1/12), **TP 11/11 = 100%**; gated FPs fall to zero on utr3/junction via plan-layer blocks (6 blocked requests, the model publishes no claim — outlined empty cells), cross-family claims downgraded to relative scope (neutral); the one surviving FP = the symmetric MRL rank flip on the weakest certified family | paired categorical strip by task family + arm × verdict mosaic inset | `exp18_mrna_claim_gating/summary.json` |
 | e | Selective, not prohibitive (Exp 23 re-run 2026-09-01, 12/12 cells met pre-registered expectations): allow on all three Exp-14-certified MRL families (conf 1.0); downgrade on the never-profiled family (conservative transfer, conf 0.5 = 1.0×0.5; absolute claim rewritten to within-target relative); require-profiling (blocked) for the unprofiled 3′UTR predictor; ClaimGate ladder pass/downgrade/reject; tool-layer enforcement verified live (allow+downgrade execute — score = Exp-14 cache; blocked fails as GatedActionError pre-service) | decision matrix (2 gate-layer blocks × 3 verdict columns + confidence/enforcement annotations) | `exp23_selective_gating/cells.jsonl` |
@@ -141,7 +141,7 @@ map (1e), two-level sunbursts (1f, 6h), per-task tile carpet (2a), stacked
 dot plot (2d), log-axis ECDF (2i),
 representative-session milestone track (2h), bubble-matrix heatmap (3a),
 Kd–score scatter (3d), permutation-null histogram insets (3h, 5b),
-per-claim colour-block matrix + mosaic inset (4b), paired bars + Δ
+per-claim colour-block matrix (4b), paired bars + Δ
 annotation (4c), Cleveland dot plot (4f), bubble strip (4h),
 cost–delivery Pareto scatter + breakthrough step-line inset (5h),
 task-type colour strips (6a). Panel lettering, data sources and all
@@ -154,6 +154,8 @@ types.
 2026-09-01 Fig 4d drawn from the Exp-18 E3-M dual-arm re-run (`experiments/plots/fig4d_mrna_family_strip.py` → `fig4d_mrna_family_strip.{pdf,png}`: 20 task rows grouped by the eight task families × two arm blocks, one tile per published claim — sage TP / terracotta FP / warm grey neutral, outlined-white = no published claim (the gated arm's plan-block abstentions) — with the arm × verdict mosaic inset). Row d updated to the re-measured numbers (FP 35.3% → 8.3%, TP 11/11).
 
 2026-09-01 Fig 4e drawn from the Exp-23 selective-gating re-run (`experiments/plots/fig4e_selective_gating_matrix.py` → `fig4e_selective_gating.{pdf,png}`: 120 × 72 mm decision matrix — DecisionGate block (6 rows: MRL × 3 certified families + never-profiled family; 3′UTR × 2) and ClaimGate block (3 rows), one tile per row in the allow·pass / downgrade / require-profiling·reject columns; verdict colours sage/mauve/sand/terracotta per the fig2h gate convention; oracle strips grey blue (MRL, fig3f) / dark warm grey (3′UTR); right-hand confidence + tool-layer annotations; centred 4-swatch verdict key). Row e updated to the re-measured matrix; the legacy `e7_gate_demo.jsonl` reference retired (asset long absent from disk — outcomes retained in the never-delete `e7_mrna_oracle_profile_summary.json`).
+
+2026-09-01 Fig 4b user-directed revision (same frozen Exp-17 summary, no re-run): the arm × verdict mosaic inset removed (its counts are stated in the Fig. 4b caption and main text — the fig2h-donut / fig3f-waffle precedent — and its duplicated arm headers cramped against each other above a tall empty column); row labels now follow the fig3 target-label convention ("IFN-gamma" → "IFN-γ", "Influenza H3N2 HA" → "swine H3 HA") and "U reduce" was reworded "U reduction"; the verdict key is laid out with renderer-measured glyph widths (the fig4e convention) inside an assert against canvas overflow; arm blocks widened 12 → 14 mm so the matrix and the one-row key share the canvas width. Raster QA: zero non-black text cores, zero non-palette colour blobs, zero text-ink pixels inside tiles, no clipping.
 
 2026-08-31 summary-panel removal (user direction): Figs 3–5 drop their lead
 summary panel a — the failure-mode schematic (Fig 3, drawn 2026-08-31 and

diff --git a/rna_agent_system/docs/CHANGELOG.md b/rna_agent_system/docs/CHANGELOG.md
@@ -8,6 +8,10 @@
 > git history and the audit-evidence directories cited per entry; the
 > experimental do-not-repeat register is [`DECISIONS.md`](DECISIONS.md).
 
+## 2026-09-01 — Fig 4b 用户指示修订（同一份 Exp-17 冻结结果，无重跑）
+
+- **`experiments/plots/fig4b_claim_matrix.py` 修订并重渲染**（`fig4b_claim_matrix.{pdf,png}`）：(1) 删除右上 arm × verdict mosaic inset——其计数已在 Fig 4b 图注与正文陈述（fig2h 删 donut / fig3f 删 waffle 的先例），且其重复的臂标签互相挤压、下方留出整列空带；(2) 行标签改用 fig3 靶标惯例（"IFN-gamma" → "IFN-γ"、"Influenza H3N2 HA" → "swine H3 HA"），"U reduce" 改词为 "U reduction"；(3) 底部四摆片裁定键改为渲染器实测字宽排版（fig4e 惯例）并加画布溢出断言——旧版估算字宽使图例实际比画布宽、靠 tight-crop 外扩；(4) 臂块 12 → 14 mm、块间距 5 → 8 mm，使矩阵主体与单行图例共享画布宽度（tile 1.7 → 2.0 mm）。全部文字维持 6-pt 纯黑（光栅复核：旧版亦全部为 #000000 文字核，无非黑文字）、palette rev 7 用色、1200-dpi PNG + 矢量 PDF。光栅 QA：零非黑文字核、零非调色板色块、tile 内零文字墨迹、四边无裁切。文档同步：PAPER_DRAFT Fig 4 图注 (b) 删 mosaic-inset 从句、FIGURE_PLAN_V5 行 b + 类型清单 + 注记。
+
 ## 2026-09-01 — Exp 23: 选择性门控决策矩阵重跑（Fig 4e，§2.4 实验 4）
 
 - **数据集（用户确认后开跑，与最新重跑对齐）**：认证家族 = Exp-14 MRL 锚集 `e7_mrl_anchor_set.json`（706 / 3 族，Sample et al. 2019 MPRA, GEO GSE114002——即 Fig 3f 的认证基础、Fig 4d 的 MRL 真值，sha256 冻结进 summary）；未剖析家族 = e18 任务集的生产键 `novel_utr_family_7` 及其真实 50-nt 候选；阻断格 3′UTR = 同一 e18 集的生产 Insulin 构造 3′UTR；E1 交叉验证基准 = 保留的 `e7_mrl_scoring.jsonl`。与 Fig 2a–i / Fig 3a–h / Fig 4a–d 的重合核查：Fig 3f 同一文件、Fig 4d 部分取自它（mrl_optimum 两任务）、Fig 2e 同类零重合（706×50 全比对 0 相同 0 包含）、其余无涉。
